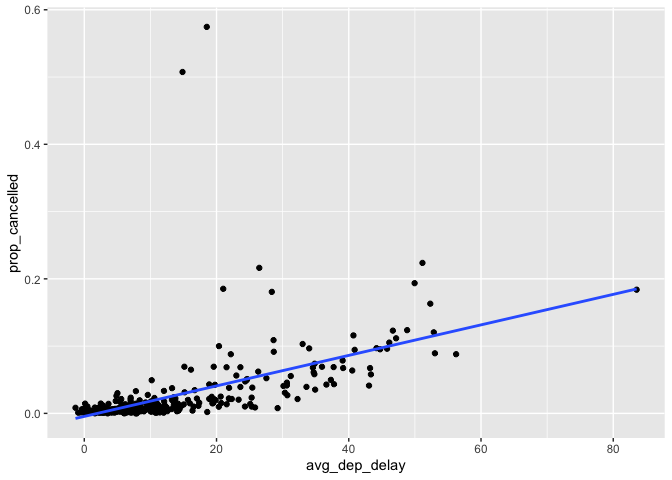
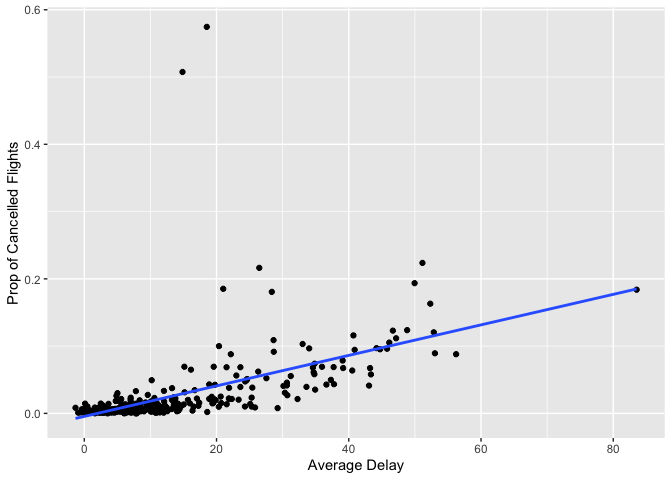
homework1 from R

Changed region(s): [[0.4375, 0.9375, 0.625, 1.0], [0.0, 0.2812, 0.0312, 0.625]]

diff --git a/README.md b/README.md
@@ -89,7 +89,8 @@ flights %>%
   group_by(month, day) %>%
   summarize(avg_dep_delay = mean(dep_delay, na.rm = T),
             prop_cancelled = sum(is.na(dep_time)/n())) %>%
-  ggplot(mapping = aes(x = avg_dep_delay, y = prop_cancelled)) +
+  ggplot(aes(x = avg_dep_delay, y = prop_cancelled)) +
+  labs(x = "Average Delay", y = "Prop of Cancelled Flights") +
   geom_point() +
   geom_smooth(method = 'lm', se = F)
 ```
@@ -99,3 +100,7 @@ flights %>%
     ## `geom_smooth()` using formula 'y ~ x'
 
 ![](README_files/figure-gfm/unnamed-chunk-5-1.png)<!-- -->
+
+**Answer:** From the plot, we can see that there exists a pattern. It’s
+seemed to have a positive linear trend between the proportion of
+cancelled flights and the average delay.
